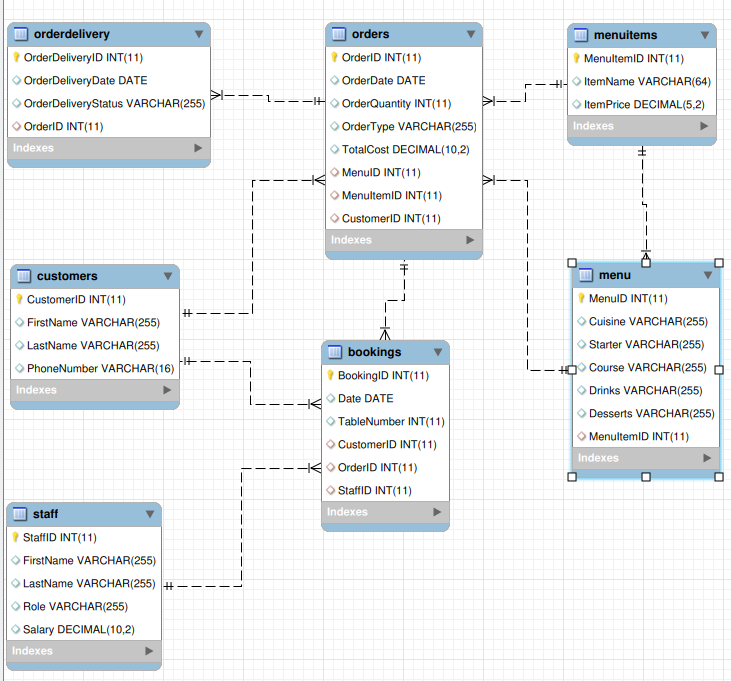
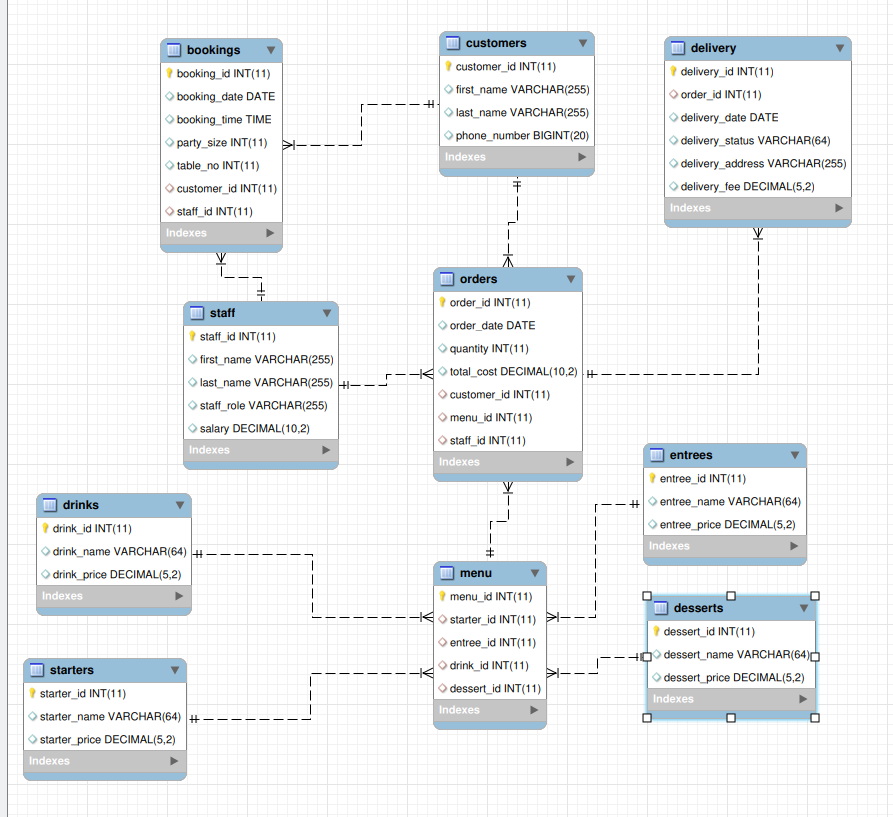
feat: Updated database and ER diagram

diff --git a/README.md b/README.md
@@ -60,9 +60,9 @@ make jupyter-start
 10. Connect to the MySQL database:
 - Server: `localhost`
 - Port: `3306`
-- Database: `little_lemon`
+- Database: `LittleLemnDB`
 - User: `root`
-- Password: `password`
+- Password: `123456`
 
 11. Open the `little-lemon.twb` workbook.
 
